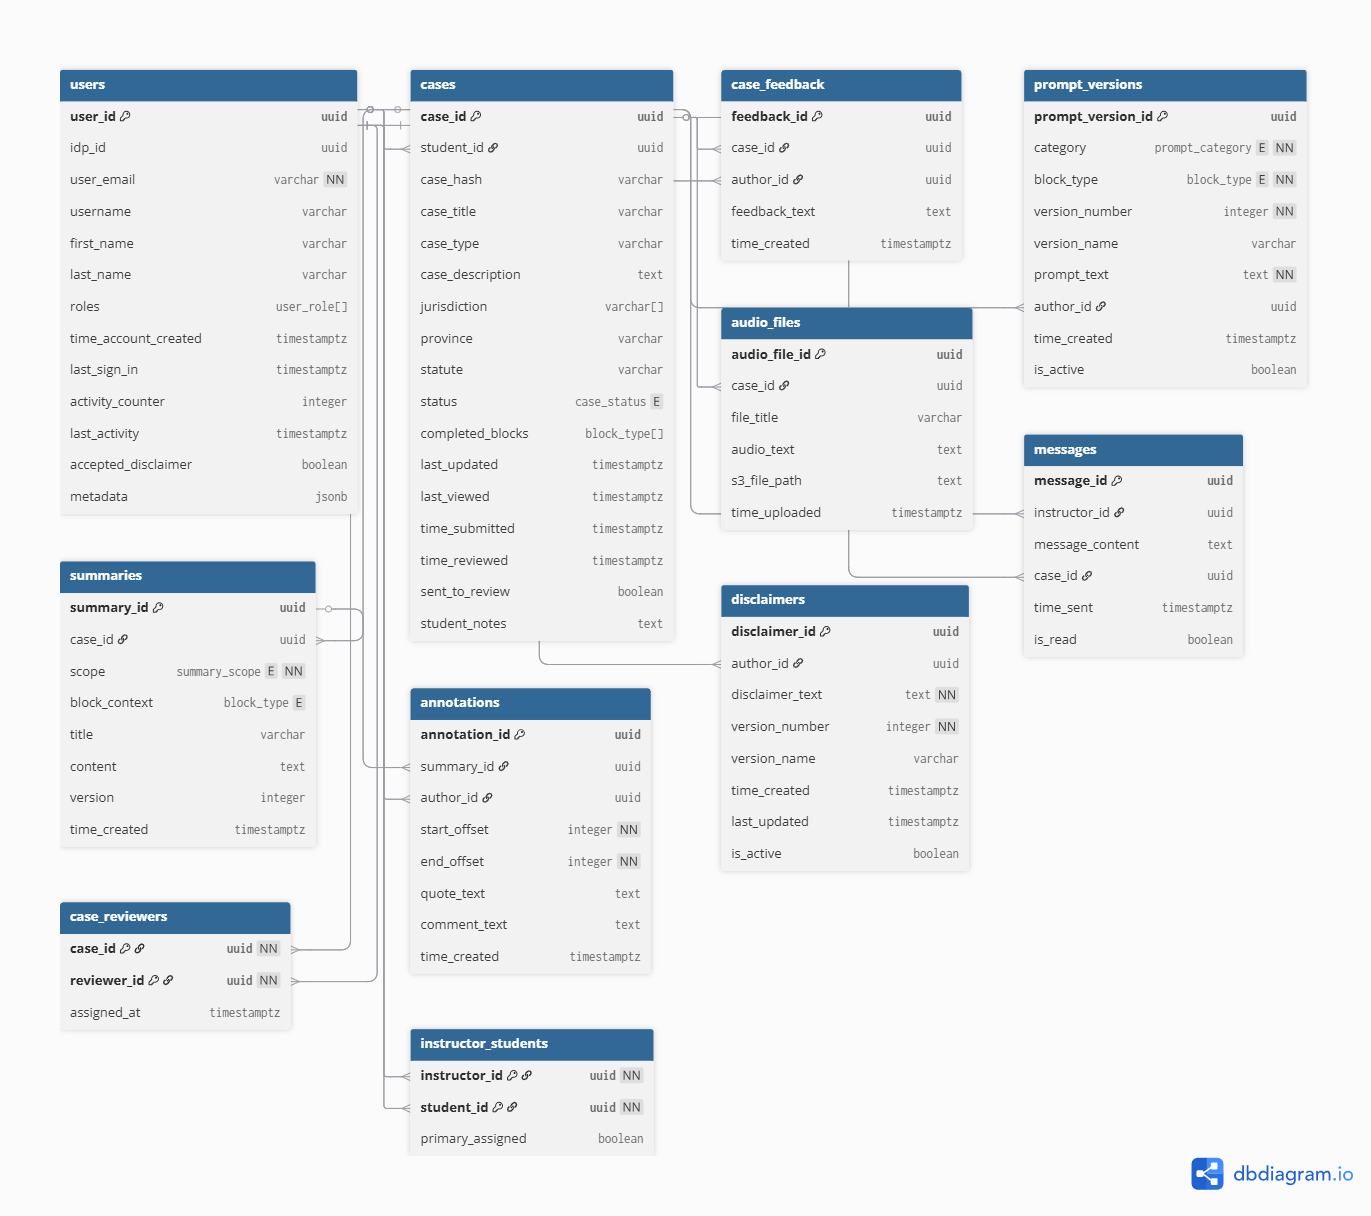
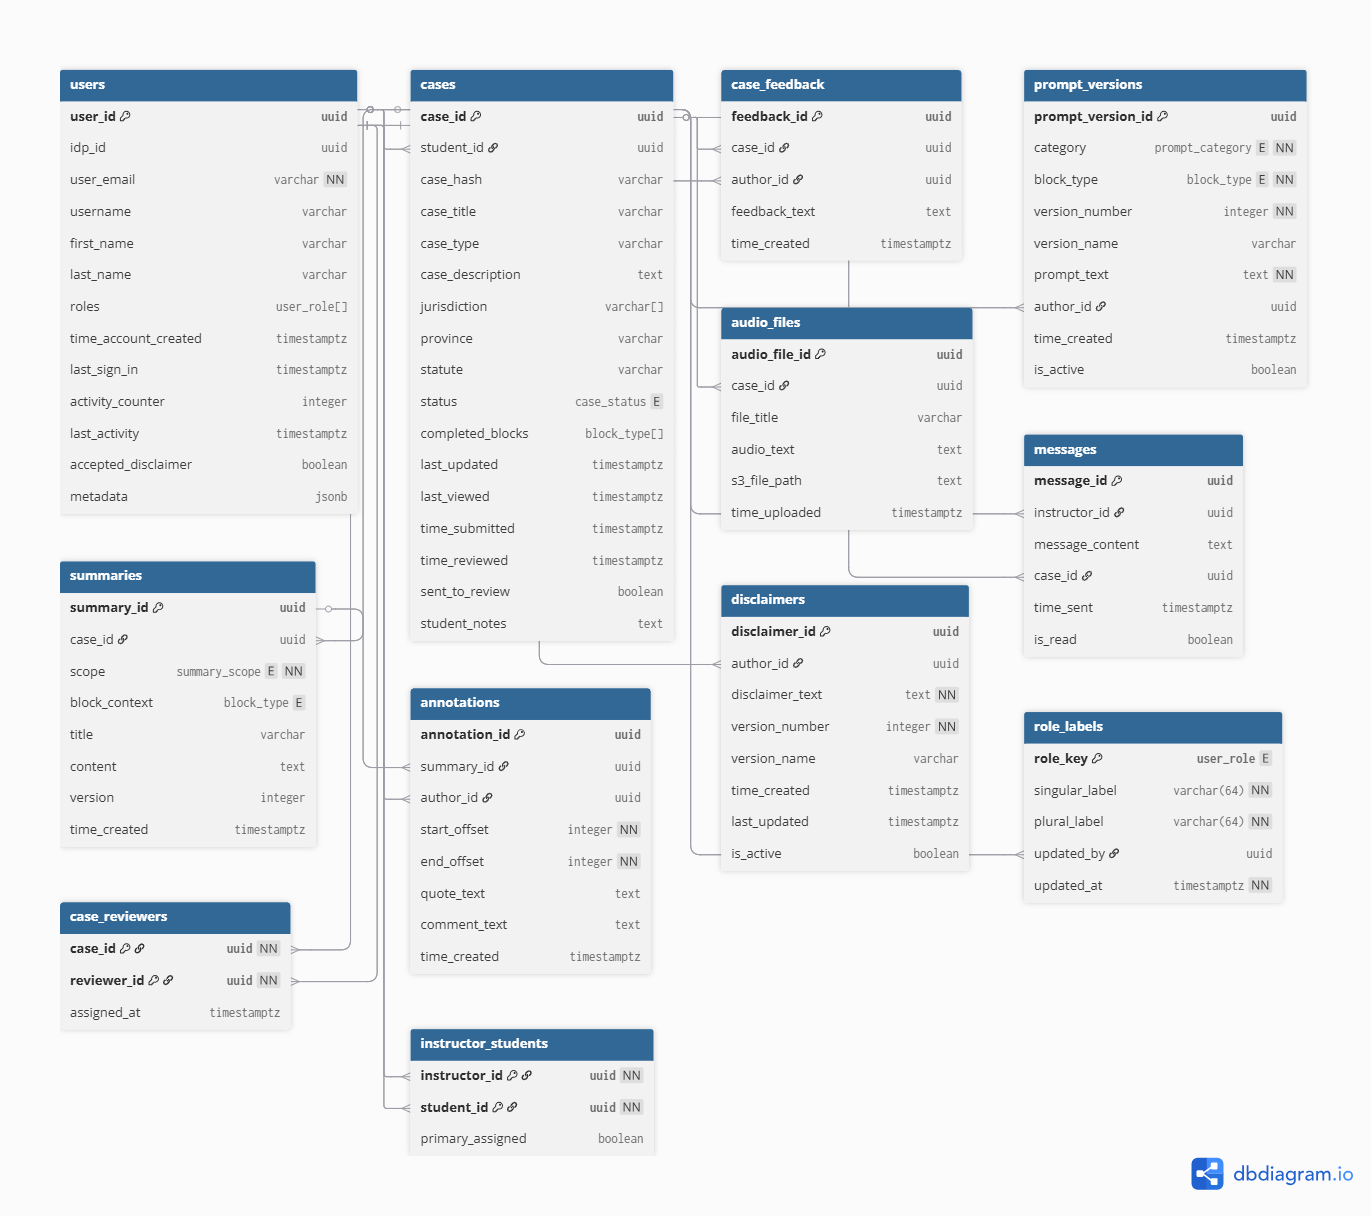
update dbschema

Changed region(s): [[0.7352, 0.5625, 0.9497, 0.75], [0.8578, 0.7188, 0.9497, 0.75]]

diff --git a/docs/architectureDeepDive.md b/docs/architectureDeepDive.md
@@ -179,4 +179,14 @@
 | `last_updated`    | Timestamp of the last modification to the disclaimer          |
 | `is_active`       | Indicates whether this disclaimer is the currently active one |
 
+##### `role_labels`
+
+| Column           | Description                                                                 |
+| ---------------- | --------------------------------------------------------------------------- |
+| `role_key`       | PK using `user_role` enum (`student`/`instructor`/`admin`)                 |
+| `singular_label` | Configurable singular display label for a role (e.g., Student, Instructor) |
+| `plural_label`   | Configurable plural display label for a role (e.g., Students, Instructors) |
+| `updated_by`     | FK→`users`; user who last updated the role label pair                       |
+| `updated_at`     | Timestamp of the most recent role label update                              |
+
 ---
